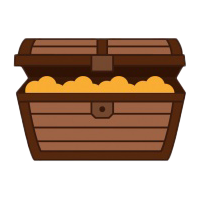
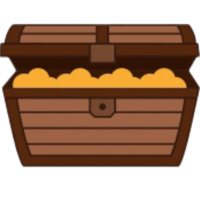
Temp test działania zmiany obrazków

diff --git a/Projekt Unity/TowerDefense/Assets/MainMenu.cs b/Projekt Unity/TowerDefense/Assets/MainMenu.cs
@@ -80,6 +80,7 @@ public class MainMenu : MonoBehaviour, ICzekajAz
     #region Reklamy
     public Sprite[] otwarteObrazki;
     public Text tekstCoWygrales;
+    public AnimationClip animacjaOtwarciaSkrzynki;
     #endregion
     #region Getery i setery
     public sbyte UstawLubPobierzOstatniIdexJezyka
@@ -214,6 +215,7 @@ public class MainMenu : MonoBehaviour, ICzekajAz
         WłączWyłączPanel(new string[] {goPanel.name, uiBudynkiPanel.name, ui_down.name, uiGry.name, optionsMenu.name,
         reklamyPanel.name, poGraj.name, winTXT.name, loseTXT.name, samouczekPanel.name, "Cretidsy"}, 
         false);
+        this.tekstCoWygrales.transform.parent.gameObject.SetActive(false);
     }
     #region Obsługa paneli UI, Czy mogę przesuwać kamerę (), Pasek HP
     ///<summary>Metoda włącza lub wyłącza panel zgodny z podanymi parametrami.</summary>
@@ -1003,14 +1005,30 @@ public class MainMenu : MonoBehaviour, ICzekajAz
         PomocniczeFunkcje.managerGryScript.KliknietyPrzycisk();
         buttonSkrzynki[idx].skrzynkaB.interactable = false;
         //Kliknąłem skrzynkę
-        //StartCoroutine(PodmieńWartości(buttonSkrzynki[idx]. ))
+        StartCoroutine(PodmieńObrazekSkrzynki(buttonSkrzynki[idx].skrzynkaB.transform.parent.Find("Skrzynka_obrazek").GetComponent<Image>(), (byte)idx));
     }
     ///
     ///<summary>Funkcja zmienia wartości dla obrazka i go podmienia</summary>
     ///<param name="obrazek">Sprite jaki ma zostać podmieniony.</param>
-    private IEnumerator PodmieńWartości(Sprite obrazek)
+    private IEnumerator PodmieńObrazekSkrzynki(Image obrazek, byte idx)
     {
-        yield return new WaitForSeconds(0.5f);
+        Animation a = obrazek.GetComponent<Animation>();
+        a.clip = animacjaOtwarciaSkrzynki;
+        a.wrapMode = WrapMode.Once;
+        a.Play();
+        yield return new WaitUntil(() => !a.isPlaying);  //Czekaj na zakończenie animacji
+        obrazek.sprite = this.otwarteObrazki[1];
+        this.tekstCoWygrales.text = PomocniczeFunkcje.managerGryScript.ekwipunekGracza[idx].nazwaPrzedmiotu;
+        this.tekstCoWygrales.transform.parent.gameObject.SetActive(true);
+        yield return new WaitForSeconds(3f);
+        this.tekstCoWygrales.transform.parent.gameObject.SetActive(false);
+    }
+    private void ResetImagesSkrzynkiImage()
+    {
+        for(byte i = 0; i < buttonSkrzynki.Length; i++)
+        {
+            buttonSkrzynki[i].skrzynkaB.transform.parent.Find("Skrzynka_obrazek").GetComponent<Image>().sprite = this.otwarteObrazki[0];
+        }
     }
     /// ///<summary>Rozpoczyna działanie otrzymania dodatkowej nagrody za skończony poziom z poziomu gry za obejrzenie reklamy</summary>
     public void KliknietyPrzyciskRewardZPoziomuZReklama()
@@ -1182,7 +1200,7 @@ public class MainMenu : MonoBehaviour, ICzekajAz
         WłączWyłączPanel(reklamyPanel.name, czyWłPanel);
         if(!czyWłPanel) //Resetuj obrazki
         {
-
+            ResetImagesSkrzynkiImage();
         }
     }
     ///<summary>Metoda włącza lub wyłącza przyciski służące do ulepszania budynków.</summary>

diff --git a/Projekt Unity/TowerDefense/Assets/Scripts/ManagerGryScript.cs b/Projekt Unity/TowerDefense/Assets/Scripts/ManagerGryScript.cs
@@ -453,6 +453,10 @@ public class ManagerGryScript : MonoBehaviour, ICzekajAz
                         break;
                 }
             }
+            if(f != null)
+            {
+                PomocniczeFunkcje.PrzypiszFontyDoNiemajacychPrzypisanychTextow(ref f);
+            }
             for (ushort i = 0; i < fLines.Length; i++)
             {
                 string[] pFrazy = fLines[i].Split('|');

diff --git a/Projekt Unity/TowerDefense/Assets/Scripts/NPC/SkryptyPomocnicze/PomocniczeFunkcje.cs b/Projekt Unity/TowerDefense/Assets/Scripts/NPC/SkryptyPomocnicze/PomocniczeFunkcje.cs
@@ -723,6 +723,10 @@ public static class PomocniczeFunkcje
         writer.WriteLine(s);
         writer.Close();
     }
+    public static void PrzypiszFontyDoNiemajacychPrzypisanychTextow(ref Font fontDoPrzypisania)
+    {
+        mainMenu.tekstCoWygrales.font = fontDoPrzypisania;
+    }
     /*
     Metoda przywraca podstawowe dane projektu (ładowanie nowej sceny np)
     */
